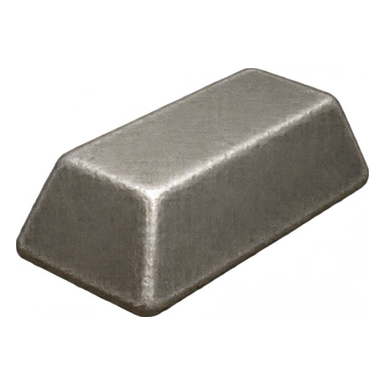
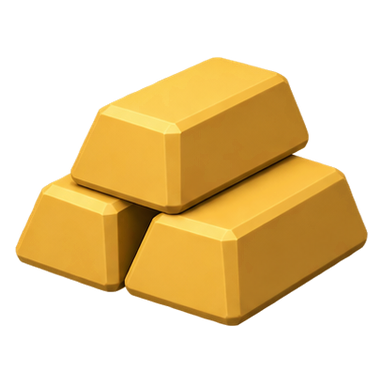
0.7.2: золотой сплав и серебряные жетоны, способности без плашек (T-099..T-101), +0,5 HP за уровень класса и прокрутка карточки (T-098)

diff --git a/guides/01_design/04_progression.md b/guides/01_design/04_progression.md
@@ -45,7 +45,7 @@
 
 
 ### Подача развития в принтере
-Общие характеристики доступны во вкладке «Общие улучшения» и действуют на все оболочки. Вкладка «Оболочка» открывает надетую: покупка её первой способности за 30 сплава показана отдельной кнопкой; вторая требует первую способность, уровень оболочки 5 и 2500 сплава. Развитие оболочки оплачивается документами, до уровня 10; уровень добавляет +0,2% здоровья и урона, +0,1% скорости. Каталог позволяет сначала осмотреть другую оболочку, затем отдельно купить/надеть. Правила стоимости, открытия миров и сохранений не изменены.
+Общие характеристики доступны во вкладке «Общие улучшения» и действуют на все оболочки. Вкладка «Оболочка» открывает надетую: покупка её первой способности за 30 сплава показана отдельной кнопкой; вторая требует первую способность, уровень оболочки 5 и 2500 сплава. Развитие оболочки оплачивается документами, до уровня 10; уровень добавляет +0,5 здоровья (CombatStats.CLASS_HP_PER_LEVEL, было +0,2% — незаметно), +0,2% урона, +0,1% скорости. Каталог позволяет сначала осмотреть другую оболочку, затем отдельно купить/надеть. Правила стоимости, открытия миров и сохранений не изменены.
 
 
 ## Без уровня базы

diff --git a/guides/03_release/07_icon_kit_brief.md b/guides/03_release/07_icon_kit_brief.md
@@ -163,3 +163,7 @@
 - Проверка: `tests/icon_kit_visual.tscn` в окне — карточки забега, сетка всех id набора, плоская иконка, неподвижный SVG-глиф; кадры `/tmp/r13-icon-kit-*.png`.
 
 Подключено сейчас: 45 карточек забега, 18 постоянных характеристик, 12 способностей, 9 технологий штаба, 9 веток гаража, 9 бонусов (`pickups/…`), 12 верстаков (`building/…`), ресурсы (сплав, документы, жетон, рецепт, чертёж). Легендарные правила сохраняют свои золотые картинки. Статусы бойца пока на прежних иконках: их id совпадают с бонусами, нужен отдельный ключ.
+
+## Решения автора после игры (2 октября 2026)
+- Способности — только сам символ: без основы, канта, ауры и параллакса (группа `ability` в data/icon_kit.json: `symbol` 0,96 и `still: true`; KitIcon оставляет отскок, но не наклоняет слои).
+- Ресурсы: сплав — золотые слитки (как в наборе v1), жетон — светлая яркая серебряная монета с лапой; так же на поле (3D-монета), в счётчике, в полёте к счётчику и при высыпании. Цветной подкраски поверх иконки жетона нет.
